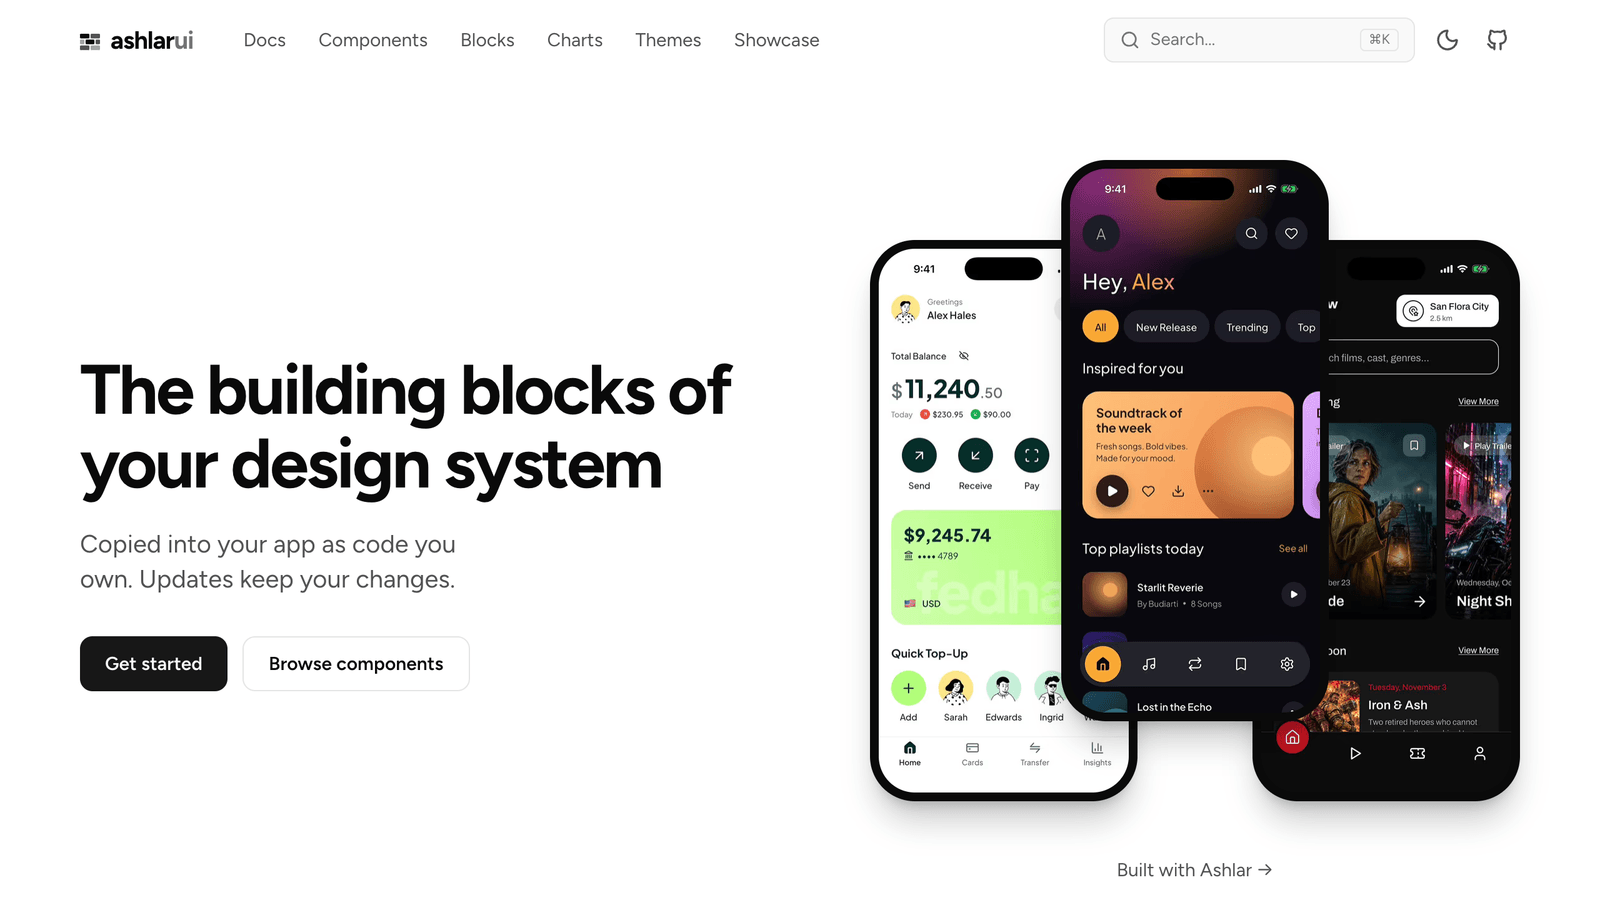
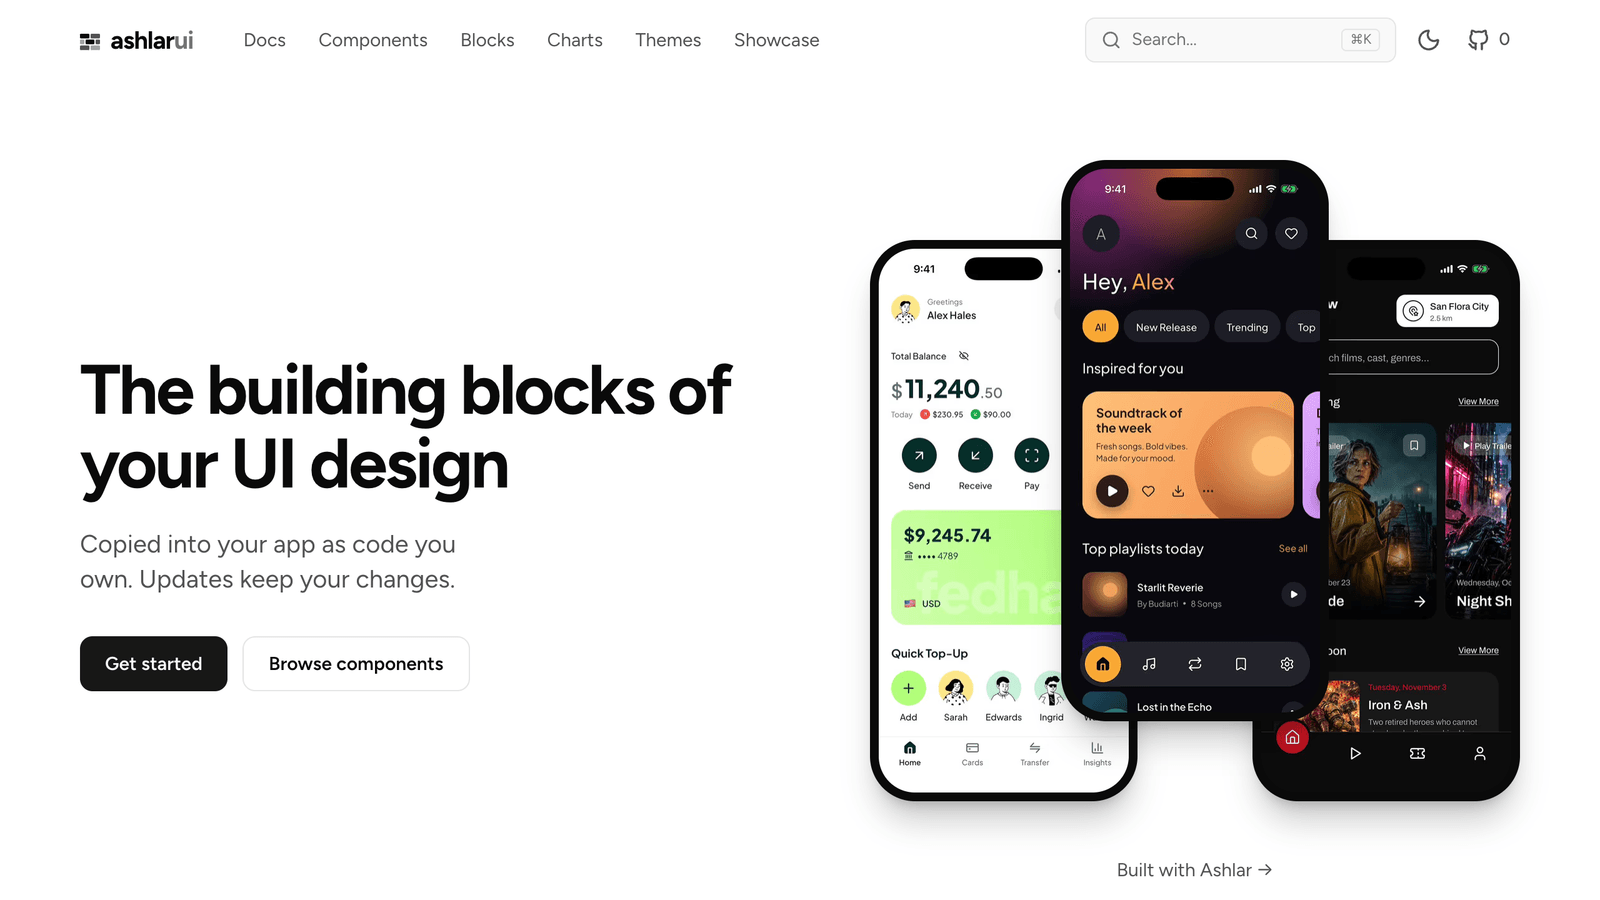
docs: a short readme, and the rest in a contributing guide
The mark, one line, badges and the site's hero, then getting started in
one command, the docs, contributing and the licence. The headline is the
site's: the building blocks of your UI design.

Changed region(s): [[0.125, 0.4667, 0.4375, 0.56], [0.8438, 0.0311, 0.9375, 0.0622], [0.6875, 0.0311, 0.75, 0.0622]]

diff --git a/README.md b/README.md
@@ -5,136 +5,35 @@
   </picture>
 </p>
 
-<h2 align="center">The building blocks of your design system.</h2>
+<h2 align="center">The building blocks of your UI design.</h2>
 
 <p align="center">
-  Flutter components that land in your app as plain source you own.<br/>
-  Change anything. When a component gets better, the update keeps your changes.
+  Flutter components copied into your app as code you own. Updates keep your changes.
 </p>
-
-<br/>
 
 <p align="center">
-  <a href="https://pub.dev/packages/ashlar_ui">
-    <img src="https://img.shields.io/pub/v/ashlar_ui?color=0a0a0a&label=ashlar_ui" alt="ashlar_ui on pub.dev" />
-  </a>
-  <a href="https://pub.dev/packages/ashlar_ui/score">
-    <img src="https://img.shields.io/pub/points/ashlar_ui?color=0a0a0a" alt="pub points" />
-  </a>
-  <a href="https://github.com/mittolabs/ashlar-ui/blob/main/LICENSE">
-    <img src="https://img.shields.io/badge/license-MIT-0a0a0a" alt="MIT licence" />
-  </a>
-  <img src="https://img.shields.io/badge/Flutter-widgets_layer-0a0a0a?logo=flutter&logoColor=white" alt="Flutter, widgets layer" />
-  <a href="https://ui.ashlar.ke">
-    <img src="https://img.shields.io/badge/docs-ui.ashlar.ke-0a0a0a" alt="Docs" />
-  </a>
-  <a href="https://github.com/mittolabs/ashlar-ui/stargazers">
-    <img src="https://img.shields.io/github/stars/mittolabs/ashlar-ui?style=flat&color=0a0a0a" alt="Stars" />
-  </a>
+  <a href="https://pub.dev/packages/ashlar_ui"><img src="https://img.shields.io/pub/v/ashlar_ui?color=0a0a0a&label=ashlar_ui" alt="ashlar_ui on pub.dev" /></a>
+  <a href="https://pub.dev/packages/ashlar_ui/score"><img src="https://img.shields.io/pub/points/ashlar_ui?color=0a0a0a" alt="pub points" /></a>
+  <a href="LICENSE"><img src="https://img.shields.io/badge/license-MIT-0a0a0a" alt="MIT licence" /></a>
 </p>
-
-<br/>
 
 <p align="center">
-  <a href="https://ui.ashlar.ke">
-    <img src="assets/hero.png" alt="ui.ashlar.ke: the building blocks of your design system, beside three apps built with Ashlar UI" width="100%" />
-  </a>
+  <a href="https://ui.ashlar.ke"><img src="assets/hero.png" alt="ui.ashlar.ke: the building blocks of your UI design, beside three apps built with Ashlar UI" width="100%" /></a>
 </p>
-
----
 
 ## Get started
 
-Install the `ashlar` command once:
-
 ```sh
 dart pub global activate ashlar
+ashlar init && ashlar add button
 ```
 
-Then, in your Flutter app:
-
-```sh
-ashlar init                  # your theme and AshlarApp, in lib/ui
-ashlar add button dialog     # components, and whatever they need
-ashlar list                  # everything there is, and what you have
-```
-
-Use them like any widget, because that's all they are:
-
-```dart
-import 'ui/app.dart';
-import 'ui/button.dart';
-
-void main() => runApp(AshlarApp(home: Home()));
-
-Button(onPressed: save, child: Text('Save'))
-```
-
-The files are yours from the moment they land. `ashlar` never overwrites one you
-already have unless you pass `--overwrite`, and asks first if you changed it. `ashlar
-update` brings in what got better while keeping what you changed.
-
----
-
-## Why it feels different
-
-| | |
-|---|---|
-| **It's your code** | Components are copied into `lib/ui` as plain Dart. Read them, change them, rename them with your own prefix (`ashlar init --prefix SL`). |
-| **Updates keep your changes** | `ashlar diff` shows what changed on both sides; `ashlar update` merges, and `--preview` draws the before and after first. |
-| **Tests come along** | Each component arrives with its tests in `test/ashlar`, so you can change it and check it still keeps its promises. |
-| **The widgets layer only** | No Material, no Cupertino. One look on every platform, with keyboard focus and screen reader support from Flutter itself. |
-| **One theme** | Seven bases, seventeen accents and six styles, or a theme made on [ui.ashlar.ke/themes](https://ui.ashlar.ke/themes). Every colour, corner and size comes from it. |
-| **Built for agents too** | `ashlar init` tells your coding agent how to build with Ashlar UI, `ashlar mcp` hands it the commands, and `ashlar shot` lets it see your screens without running the app. |
-
----
-
-## What's included
-
-90 components and 23 blocks (whole screens), with [ashlaricons](https://icons.ashlar.ke)
-for every icon.
-
-| | |
-|---|---|
-| **Foundation** | theme, app, pressable, group, selection |
-| **Actions** | button, button group, toggle, toggle group, dropdown menu, context menu, menubar, command |
-| **Forms** | label, field, input, textarea, select, combobox, input group, input OTP, checkbox, radio, switch, slider, calendar, date picker |
-| **Overlays** | dialog, alert dialog, sheet, drawer, popover, hover card, tooltip, toast |
-| **Layout** | card, tabs, accordion, collapsible, item, separator, scroll area, resizable, carousel |
-| **Data and navigation** | data table, charts, navigation menu, sidebar, pagination, breadcrumb |
-| **Feedback** | alert, progress, spinner, skeleton, empty |
-| **Display** | typography, badge, avatar, kbd |
-
-See them all, live, at [ui.ashlar.ke](https://ui.ashlar.ke), and the apps people have built
-with them in the [showcase](https://ui.ashlar.ke/showcase).
-
----
+Everything else is at [ui.ashlar.ke](https://ui.ashlar.ke).
 
 ## Contributing
 
-Pull requests are welcome. Ashlar UI takes bug fixes, accessibility, tooling, consistency
-between components, and components that unrelated apps clearly need. It doesn't take a
-look or an option that exists for one app's design: that belongs in your copy.
-
-| Folder | What's in it |
-|---|---|
-| `registry/` | The components' sources: what `ashlar add` copies. Edit them here. |
-| `packages/ashlar_ui` | The `ashlar` command. `dart run tool/bundle.dart` embeds `registry/` into it. |
-| `packages/ashlar` | The same command, published as `ashlar`. |
-| `gallery/` | Every component in every state, installed with `ashlar add --all`, and their tests. |
-
-Flutter runs through [fvm](https://fvm.app) on the stable channel. Commits follow
-[Conventional Commits](https://www.conventionalcommits.org); turn on the hook with
-`git config core.hooksPath .githooks`.
-
-```sh
-dart run tool/bundle.dart                                # after changing registry/
-cd packages/ashlar_ui && fvm dart test                   # the command
-cd gallery && fvm flutter test                           # the components
-```
-
----
+Read the [contributing guide](CONTRIBUTING.md).
 
 ## Licence
 
-MIT. See [LICENSE](LICENSE). Made by [Mittolabs](https://mittolabs.com).
+MIT. See [LICENSE](LICENSE).

diff --git a/CONTRIBUTING.md b/CONTRIBUTING.md
@@ -1,0 +1,22 @@
+# Contributing
+
+Pull requests are welcome. Ashlar UI takes bug fixes, accessibility, tooling, consistency
+between components, and components that unrelated apps clearly need. It doesn't take a
+look or an option that exists for one app's design: that belongs in your copy.
+
+| Folder | What's in it |
+|---|---|
+| `registry/` | The components' sources: what `ashlar add` copies. Edit them here. |
+| `packages/ashlar_ui` | The `ashlar` command. `dart run tool/bundle.dart` embeds `registry/` into it. |
+| `packages/ashlar` | The same command, published as `ashlar`. |
+| `gallery/` | Every component in every state, installed with `ashlar add --all`, and their tests. |
+
+Flutter runs through [fvm](https://fvm.app) on the stable channel. Commits follow
+[Conventional Commits](https://www.conventionalcommits.org); turn on the hook with
+`git config core.hooksPath .githooks`.
+
+```sh
+dart run tool/bundle.dart                # after changing registry/
+cd packages/ashlar_ui && fvm dart test   # the command
+cd gallery && fvm flutter test           # the components
+```
